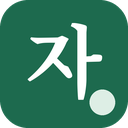
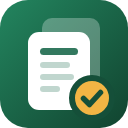
feat(brand): 서비스 이름을 Draft Log로 바꾸고 로고 교체
- 확장 이름·툴바 제목·오류 문구를 Draft Log로 변경
- 겹친 원고와 저장 체크 배지를 형상화한 로고 SVG 추가 (icons/src)
- 16·32px는 단순화한 로고로 따로 그려 작은 크기에서도 형태 유지
- npm run icons로 SVG에서 아이콘 PNG 생성, 배포 zip에서는 원본 SVG 제외

Claude-Session: https://claude.ai/code/session_01Eii48YDNsiMjiCmoKkL82h

diff --git a/lib/store.js b/lib/store.js
@@ -118,7 +118,7 @@ export function apply(db, op, a = {}, now = Date.now()) {
 /** 백업 파일 검사. 모양이 틀리면 던진다. 참조가 끊긴 항목은 버린다. */
 export function validate(data) {
   if (!data || typeof data !== "object" || !data.apps || !data.qs || !data.vers)
-    throw new Error("Draftlog 백업 파일이 아니에요.");
+    throw new Error("Draft Log 백업 파일이 아니에요.");
   const out = emptyDb();
   for (const [id, a] of Object.entries(data.apps)) {
     if (!a || !str(a.company, 80).trim()) continue;
